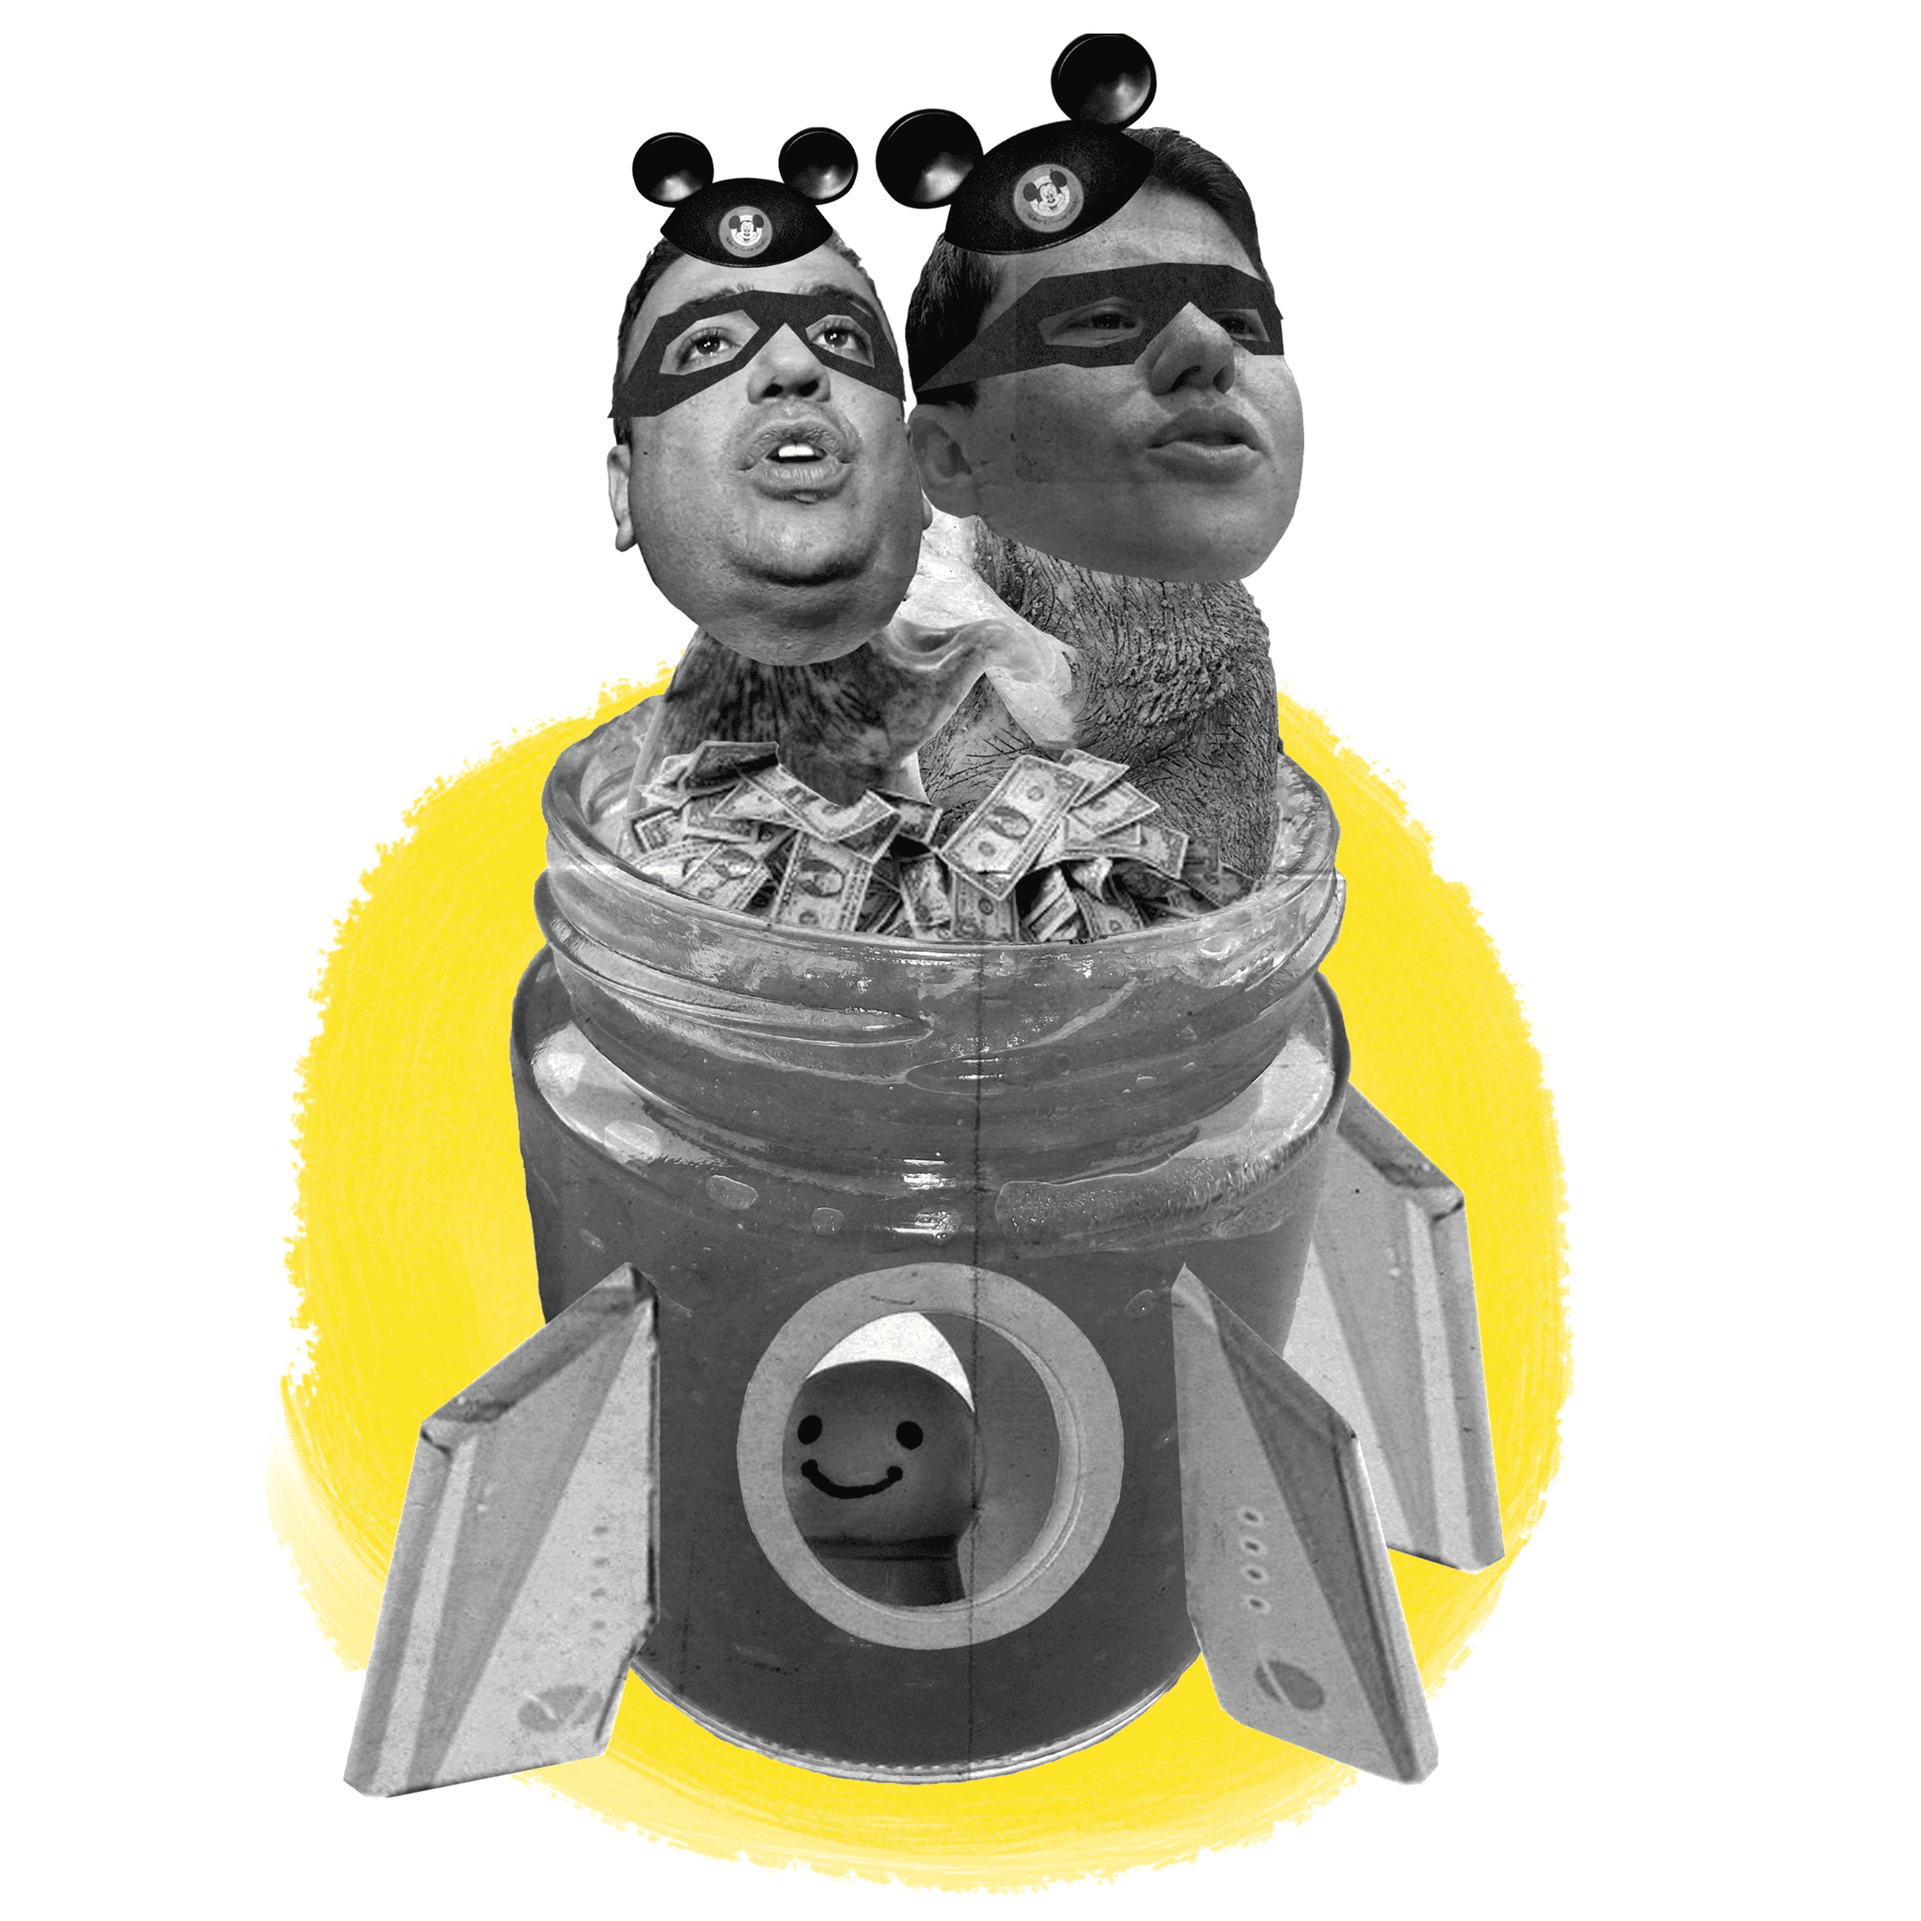
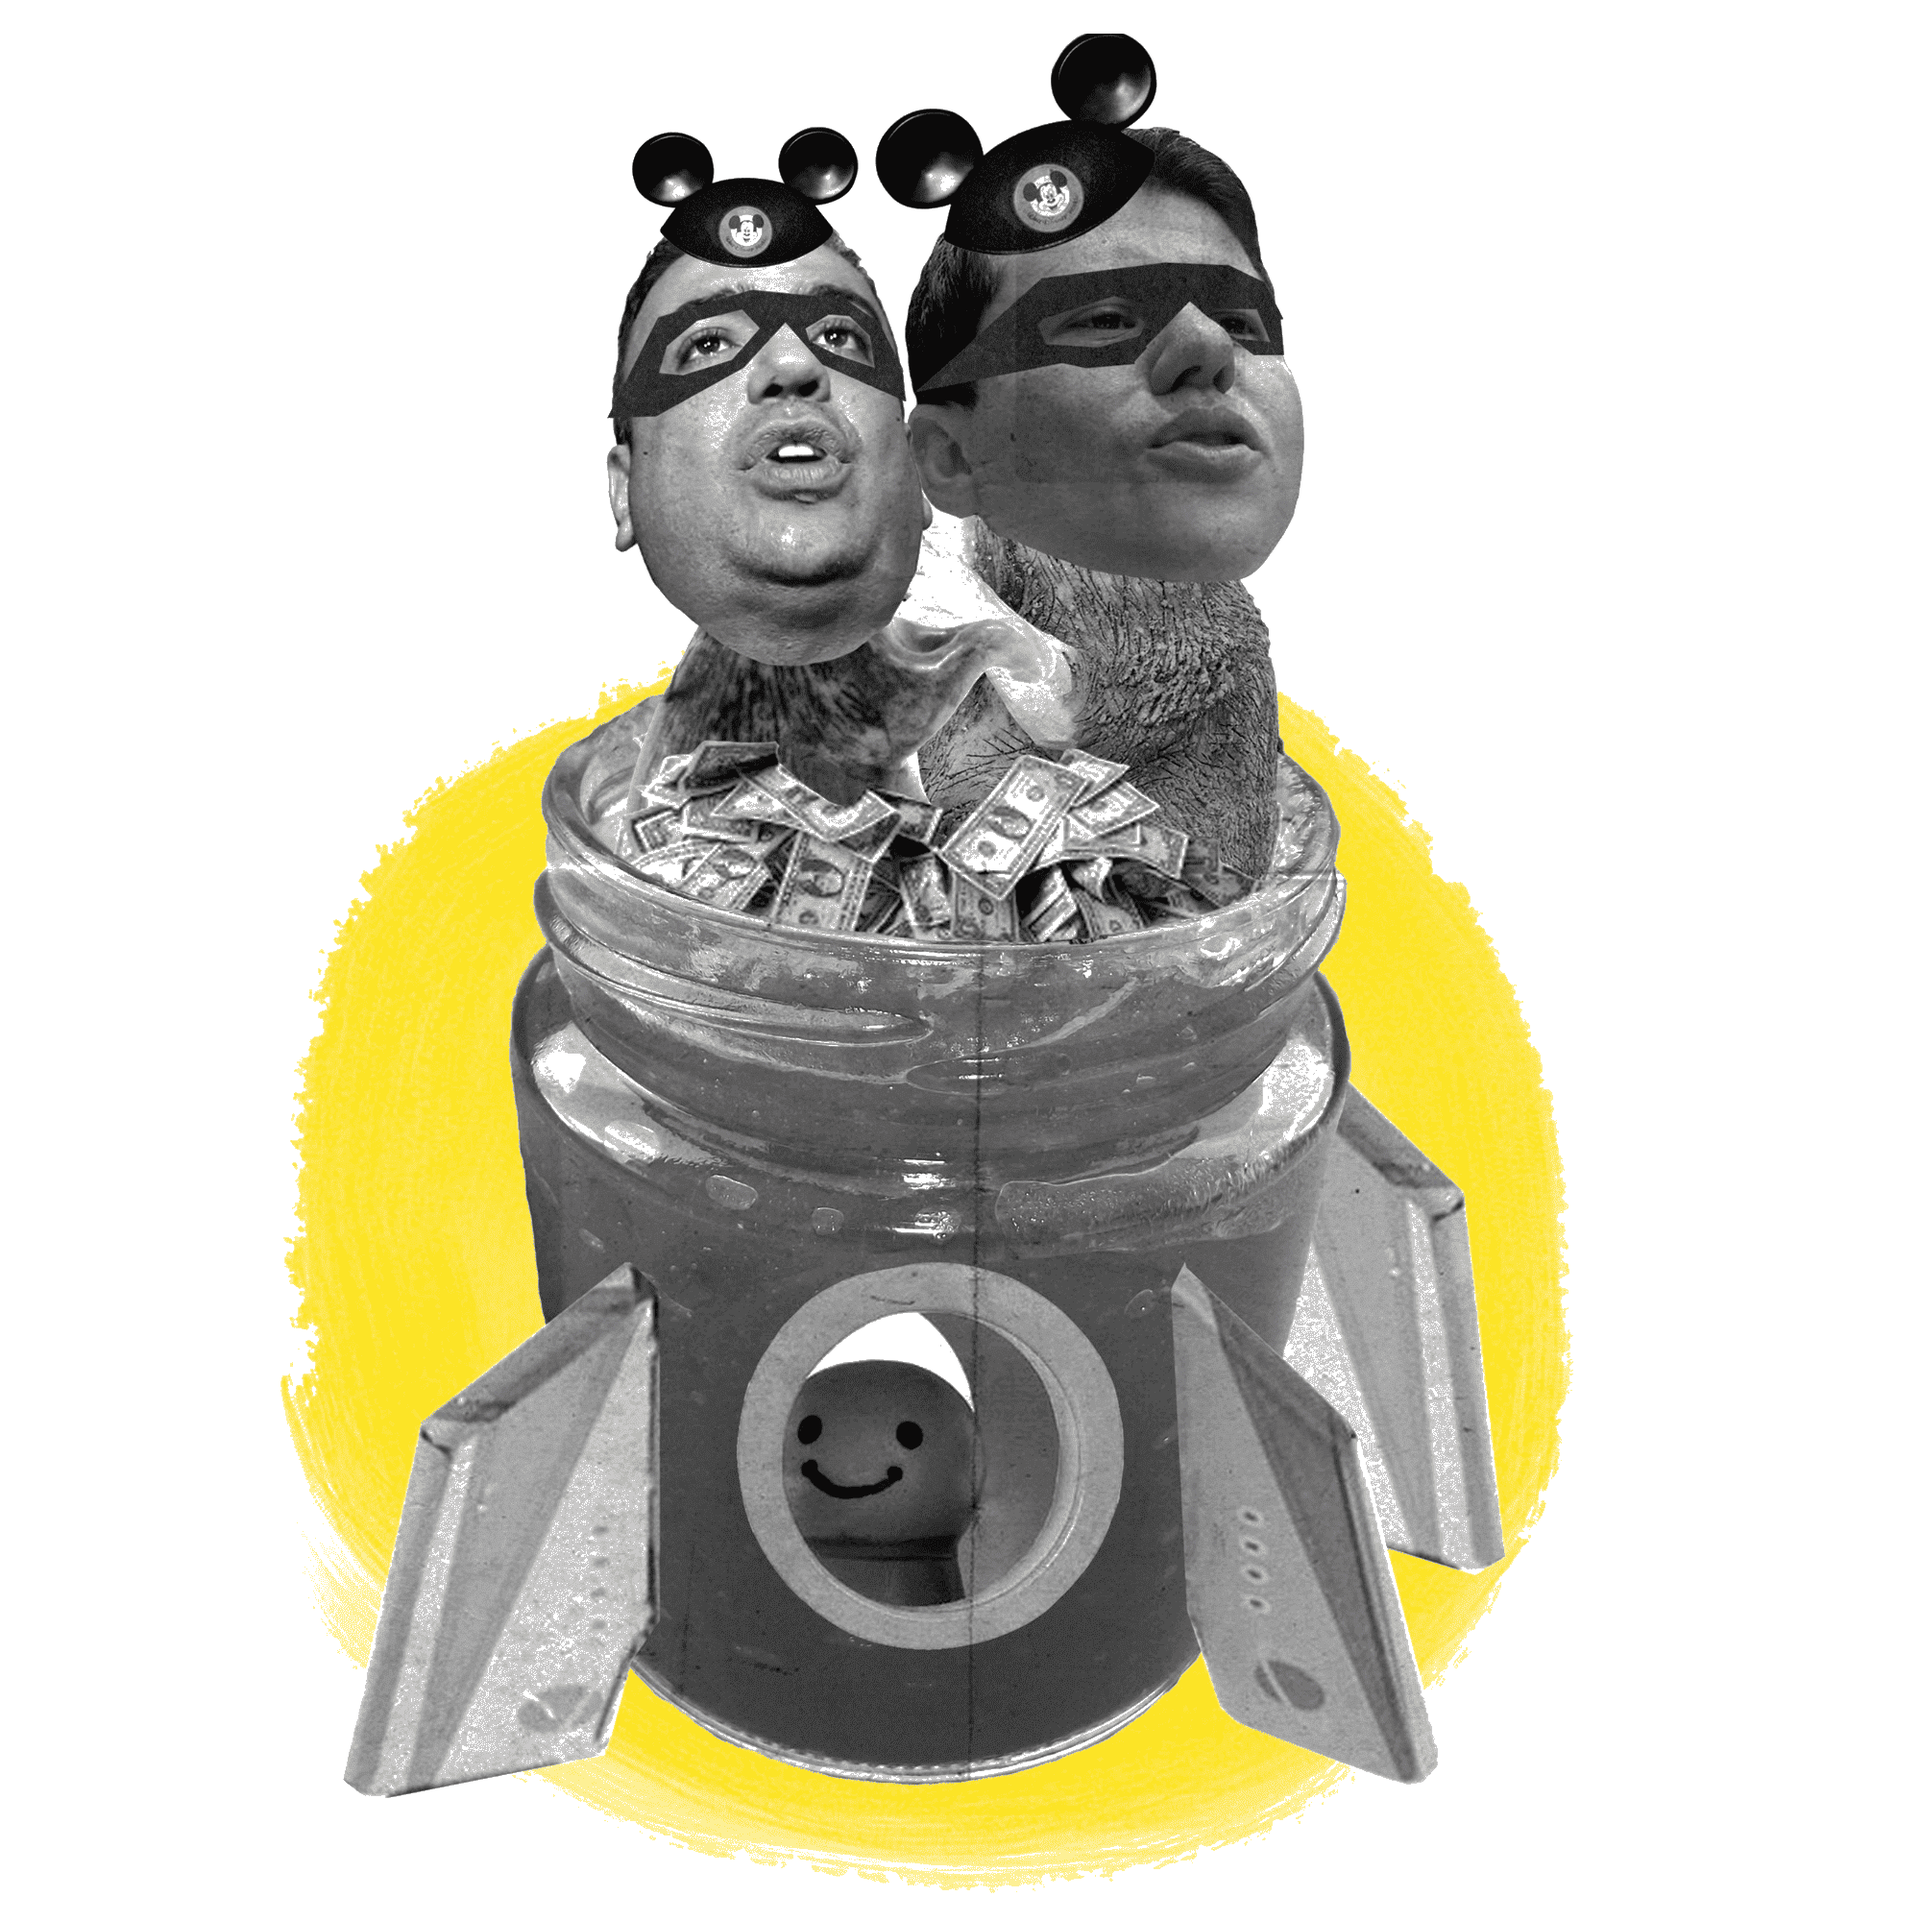
Fix mermelada image: transparent background and smaller size
- Remove white background and make transparent (fuzz 20%)
- Reduce image height from 35vh to 25vh for better visibility
- Optimize to 502K with pngquant compression
- Image now shows completely without being cut off

diff --git a/styles.css b/styles.css
@@ -165,7 +165,7 @@ h1, h2, h3, h4, h5, h6 {
     top: 0;
     overflow: hidden;
     margin-bottom: 1.5rem;
-    max-height: 35vh;
+    max-height: 25vh;
 }
 
 .parallax-image {
